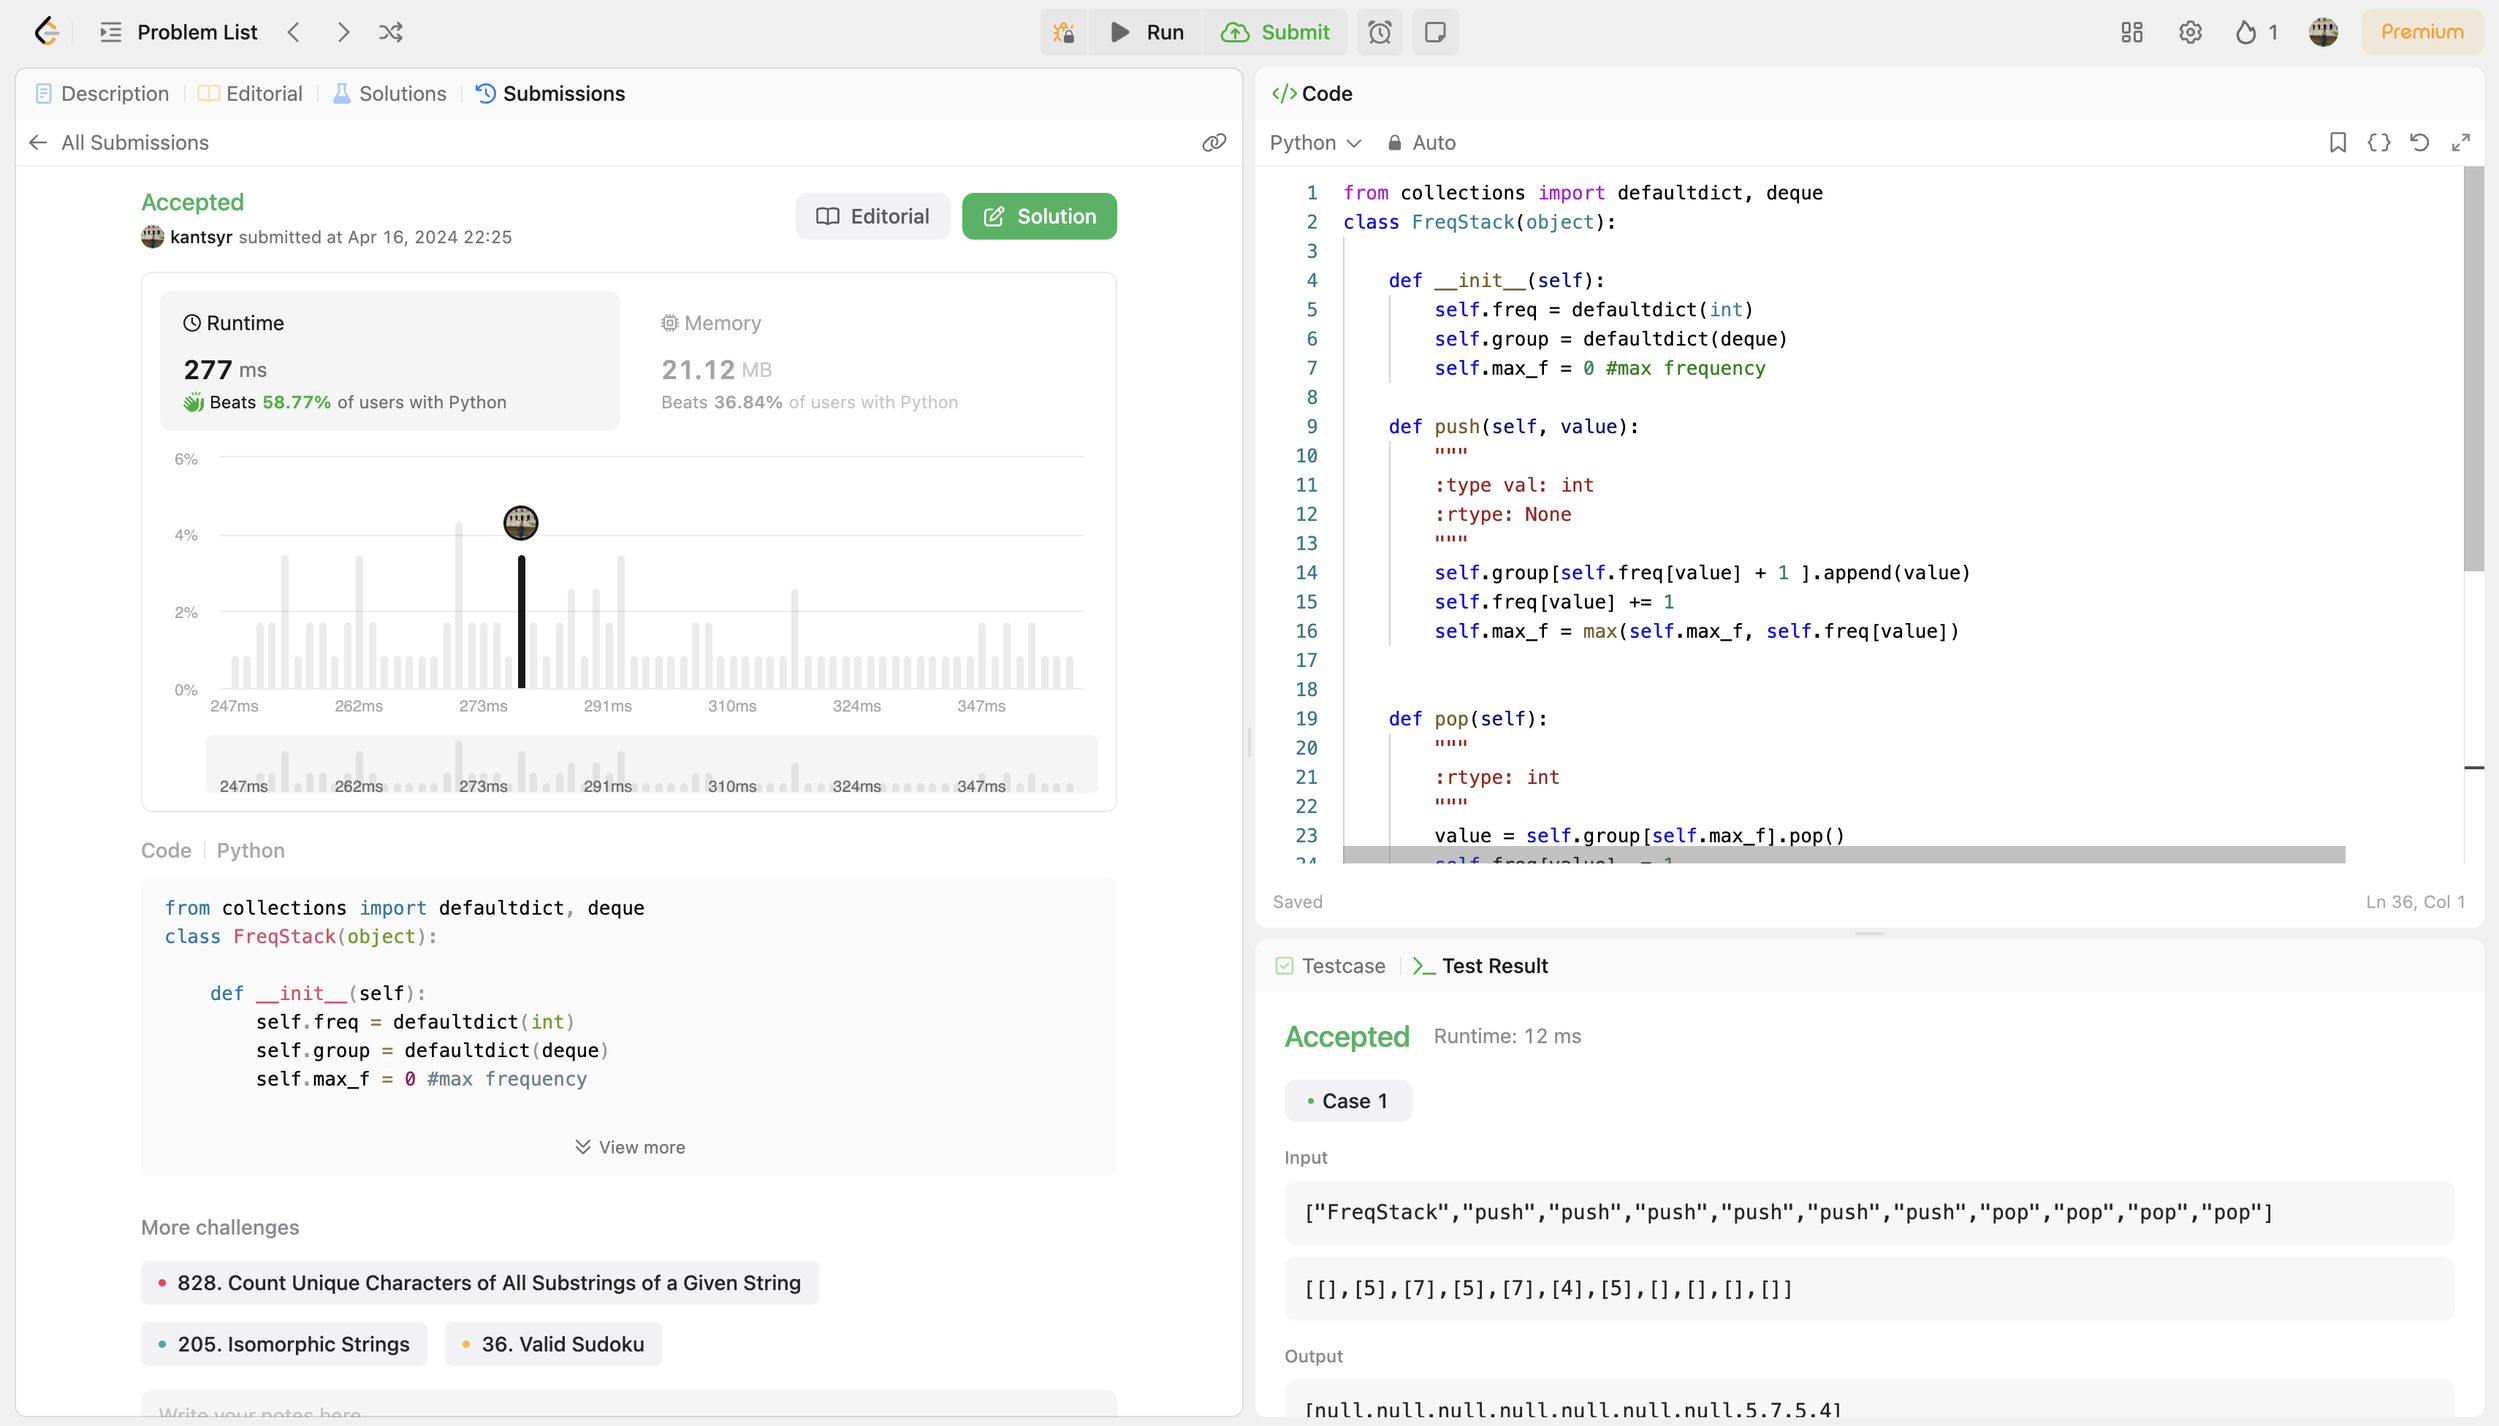
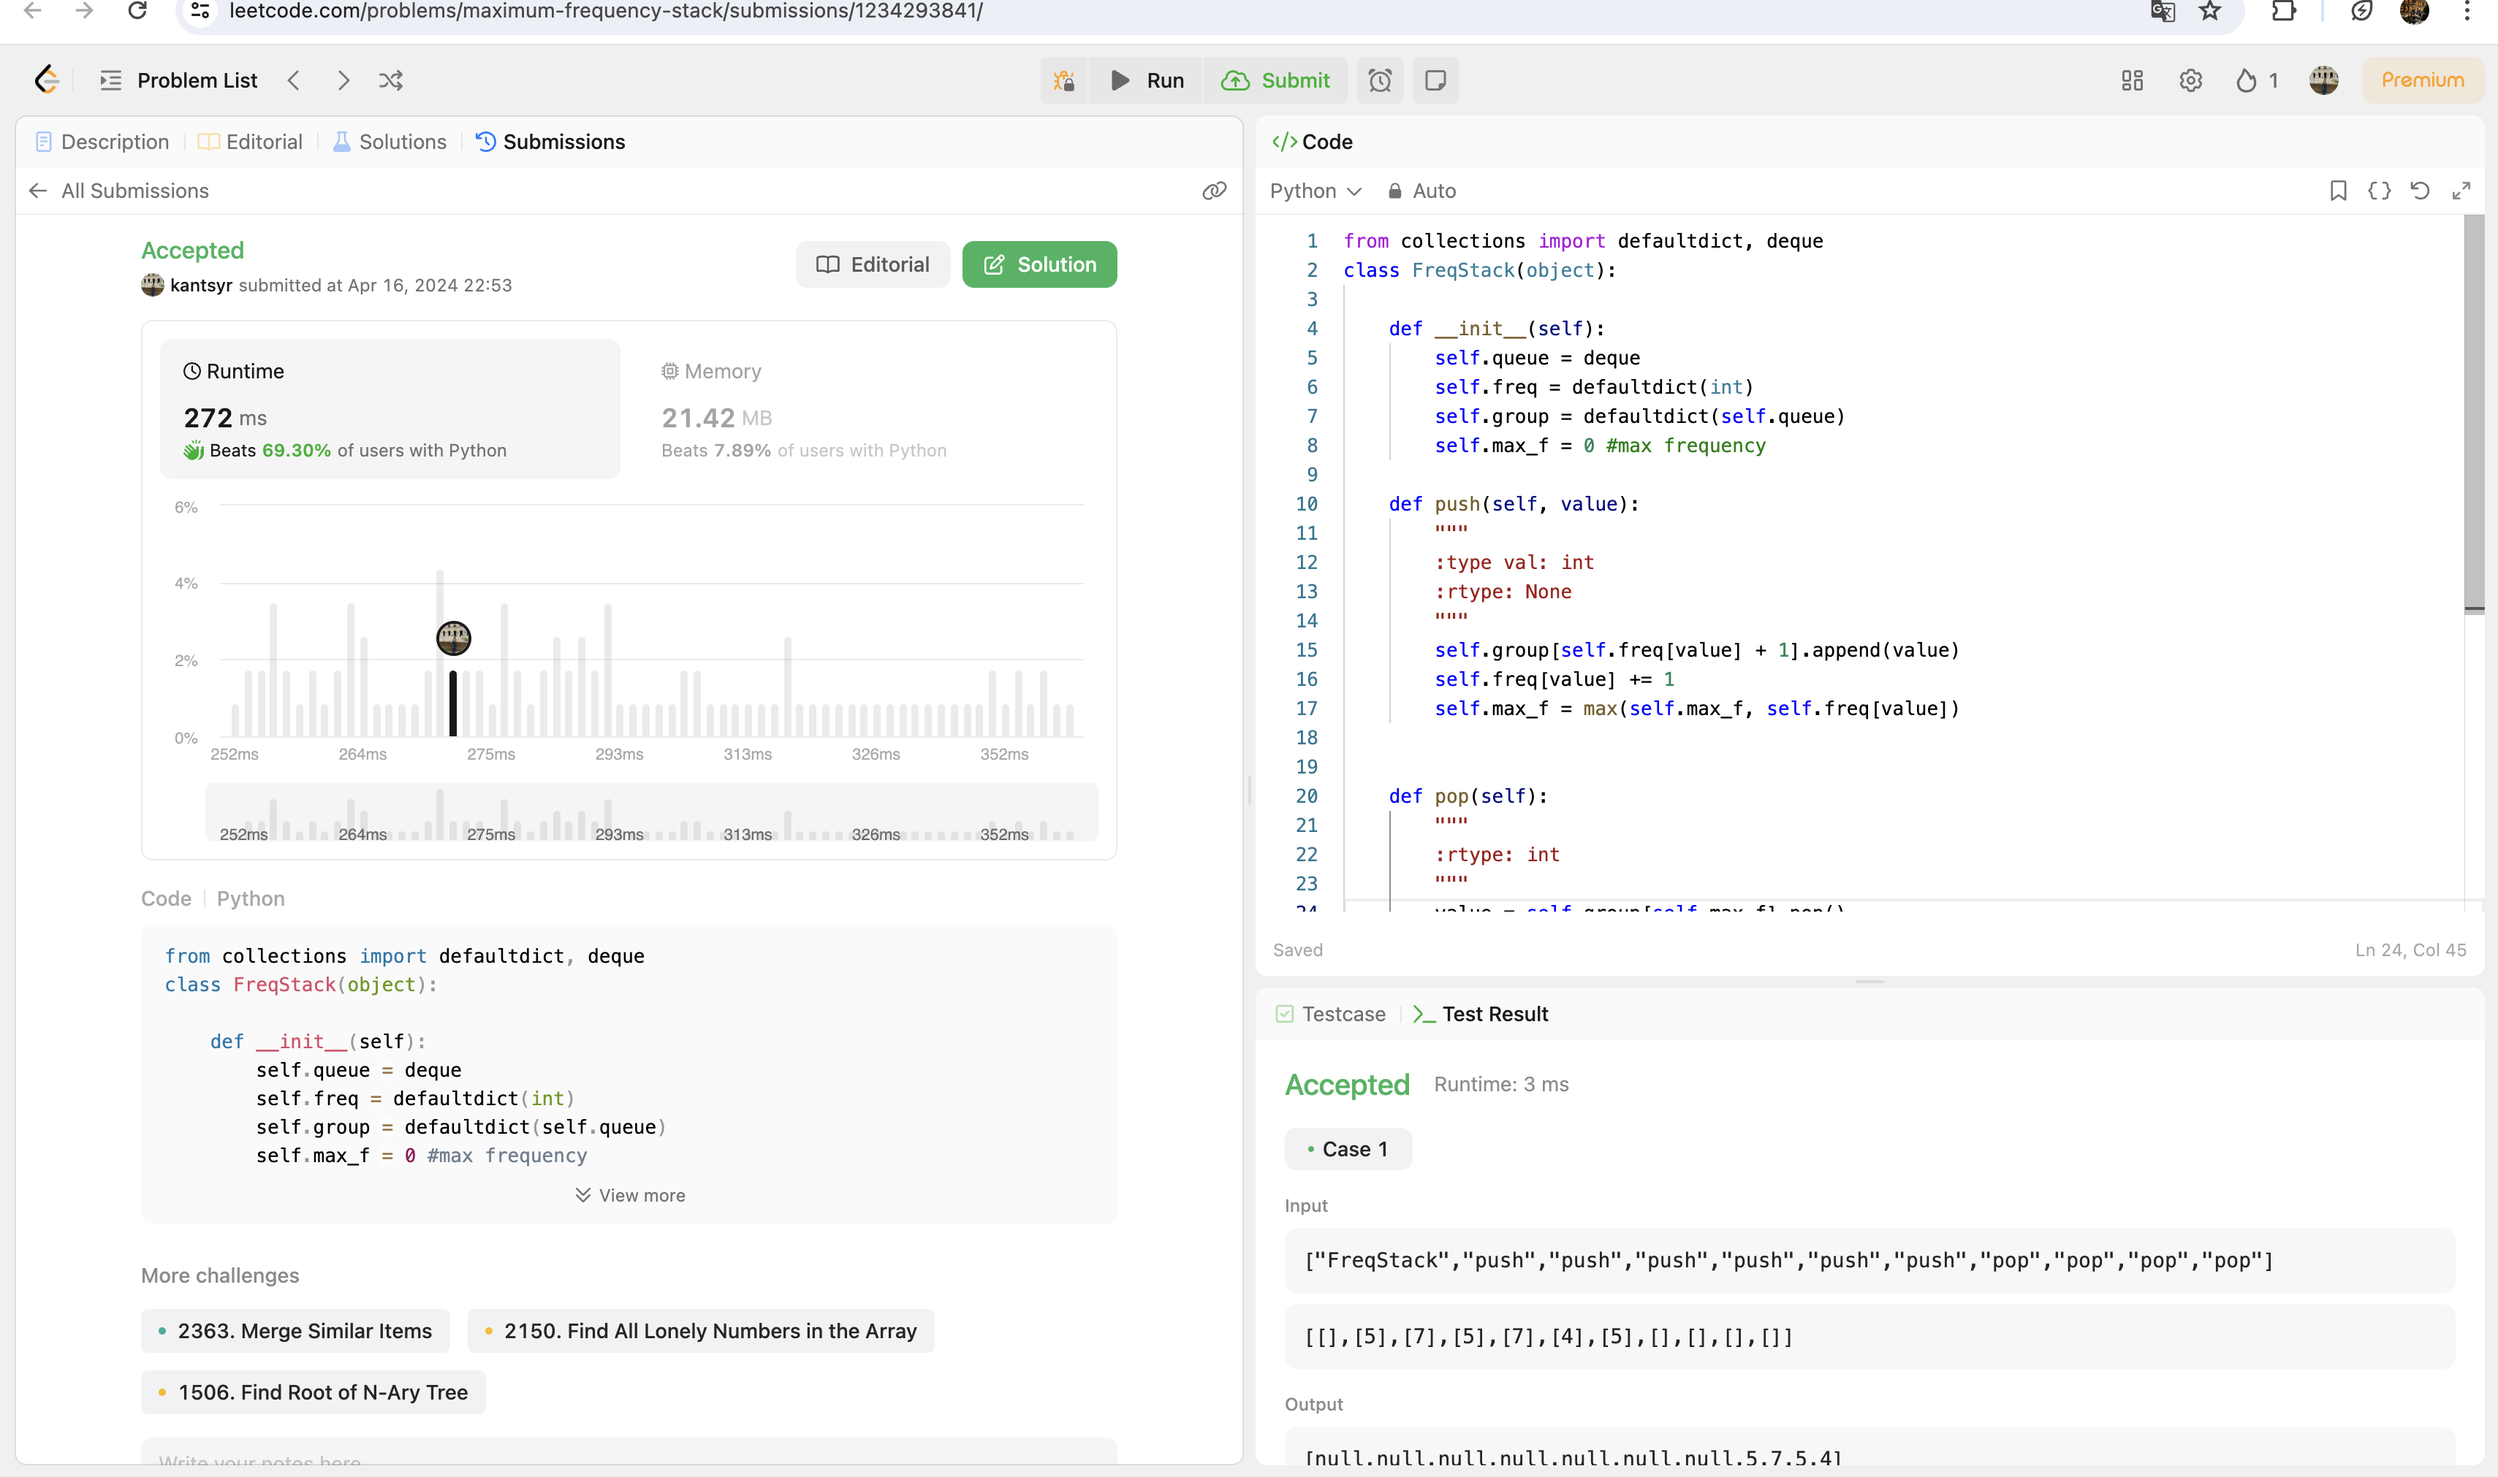
Correct implementation of Implement Maximum Frequency Stack task(using defaultdict) with all requirements

diff --git a/Maximum Frequency Stack/exercise_3.py b/Maximum Frequency Stack/exercise_3.py
@@ -2,9 +2,10 @@ from collections import defaultdict, deque
 
 class FreqStack(object):
     def __init__(self):
+        self.queue = deque #use of the main structure - queue
         self.freq = defaultdict(int)
-        self.group = defaultdict(deque)
-        self.max_f = 0 #max frequency 
+        self.group = defaultdict(self.queue)
+        self.max_f = 0 #max frequency
 
     def push(self, value):
         """
